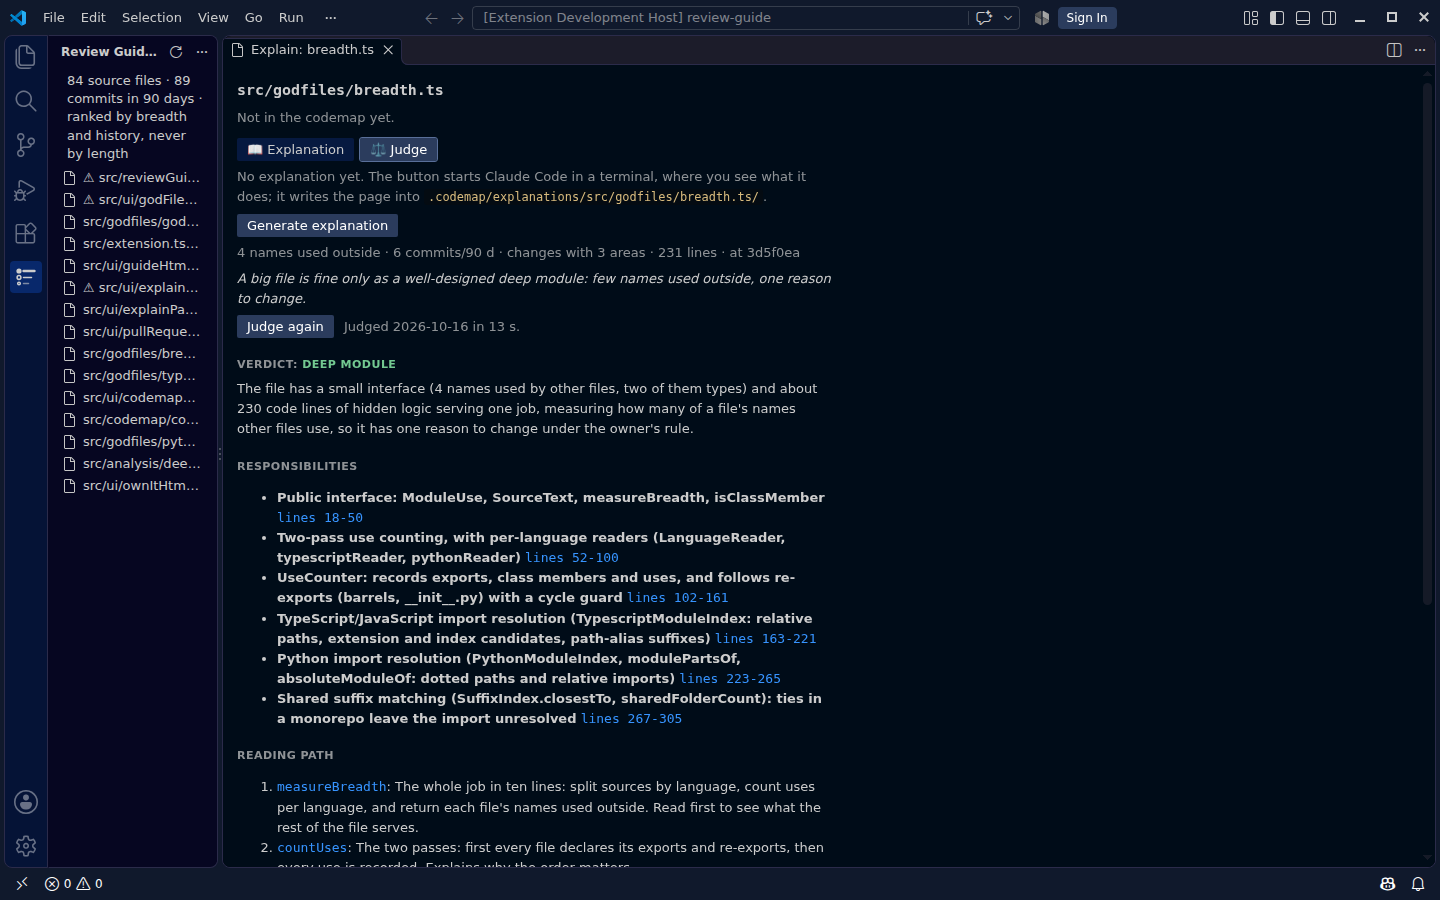
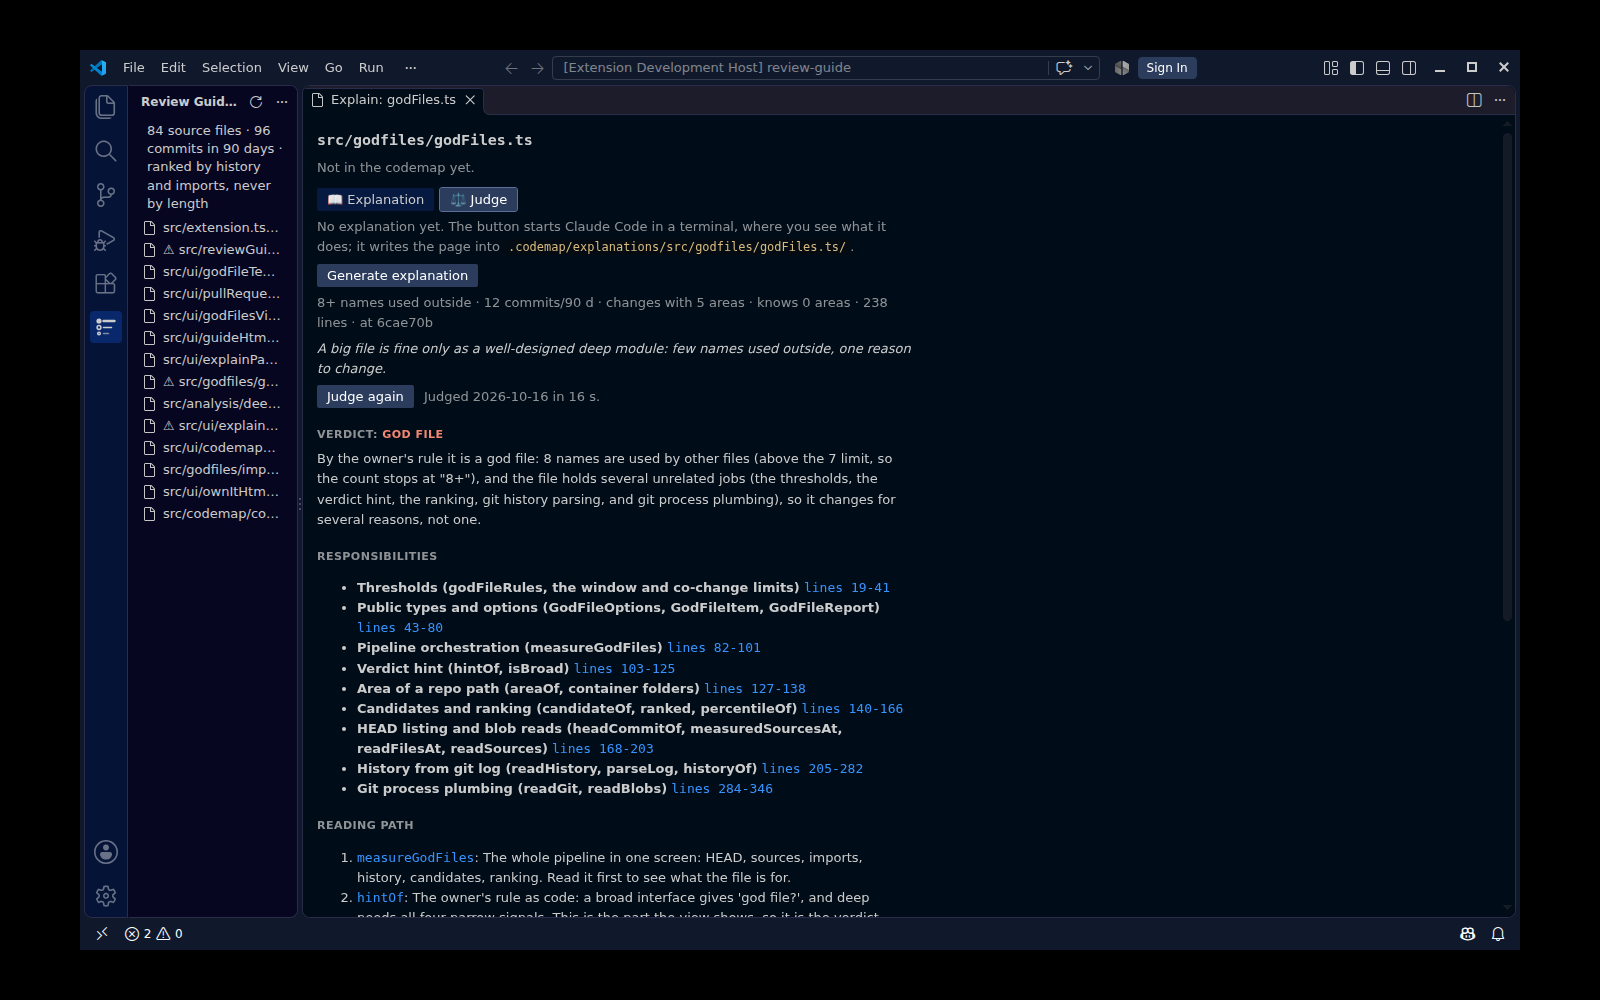
God files: screenshots of the view with language-server breadth and a Judge with Claude result (haiku) on this repo

Changed region(s): [[0.0, 0.0, 1.0, 1.0]]

diff --git a/README.md b/README.md
@@ -181,7 +181,7 @@ GOD FILES                                                         [refresh]
 
 **Judge with Claude** (right-click a file): one read-only Claude Code run on a clean copy of your last commit. It answers with a verdict (god file, deep module, hub, ok) and why, the file's responsibilities with their lines, a reading path of 3 to 5 functions, and keep whole or split. The judgment shows in the Explain panel's "Judge" view and is kept for that file and commit.
 
-<img alt="Judge with Claude on src/godfiles/breadth.ts of this repo (haiku)" src="docs/assets/god-files-judge.png" width="900">
+<img alt="Judge with Claude on src/godfiles/godFiles.ts of this repo (haiku)" src="docs/assets/god-files-judge.png" width="900">
 
 ## Safety
 
